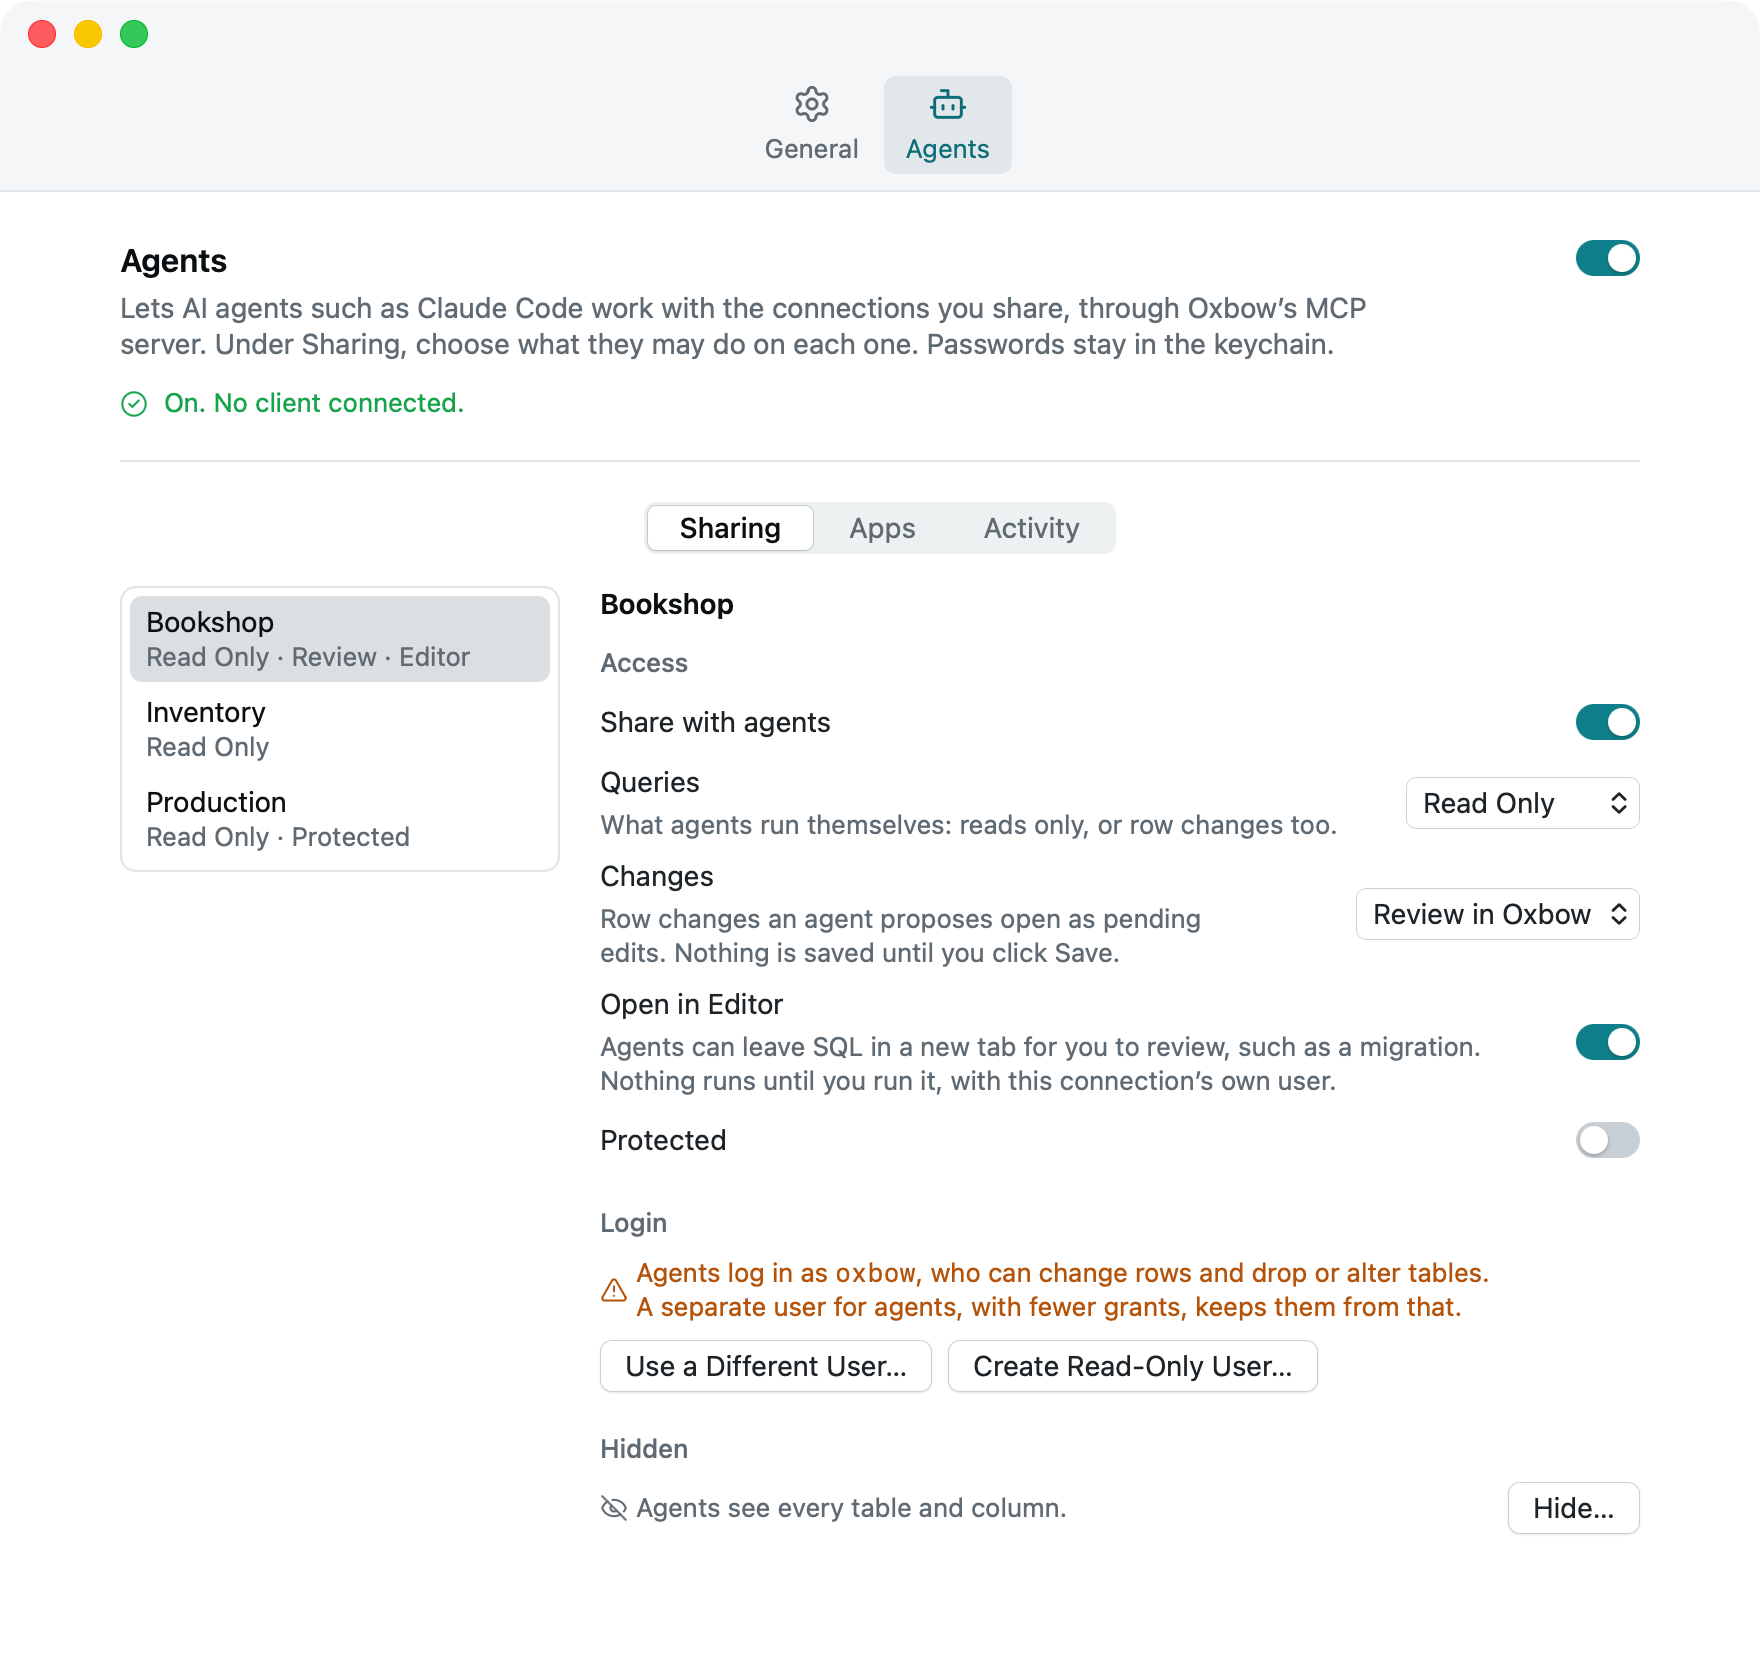
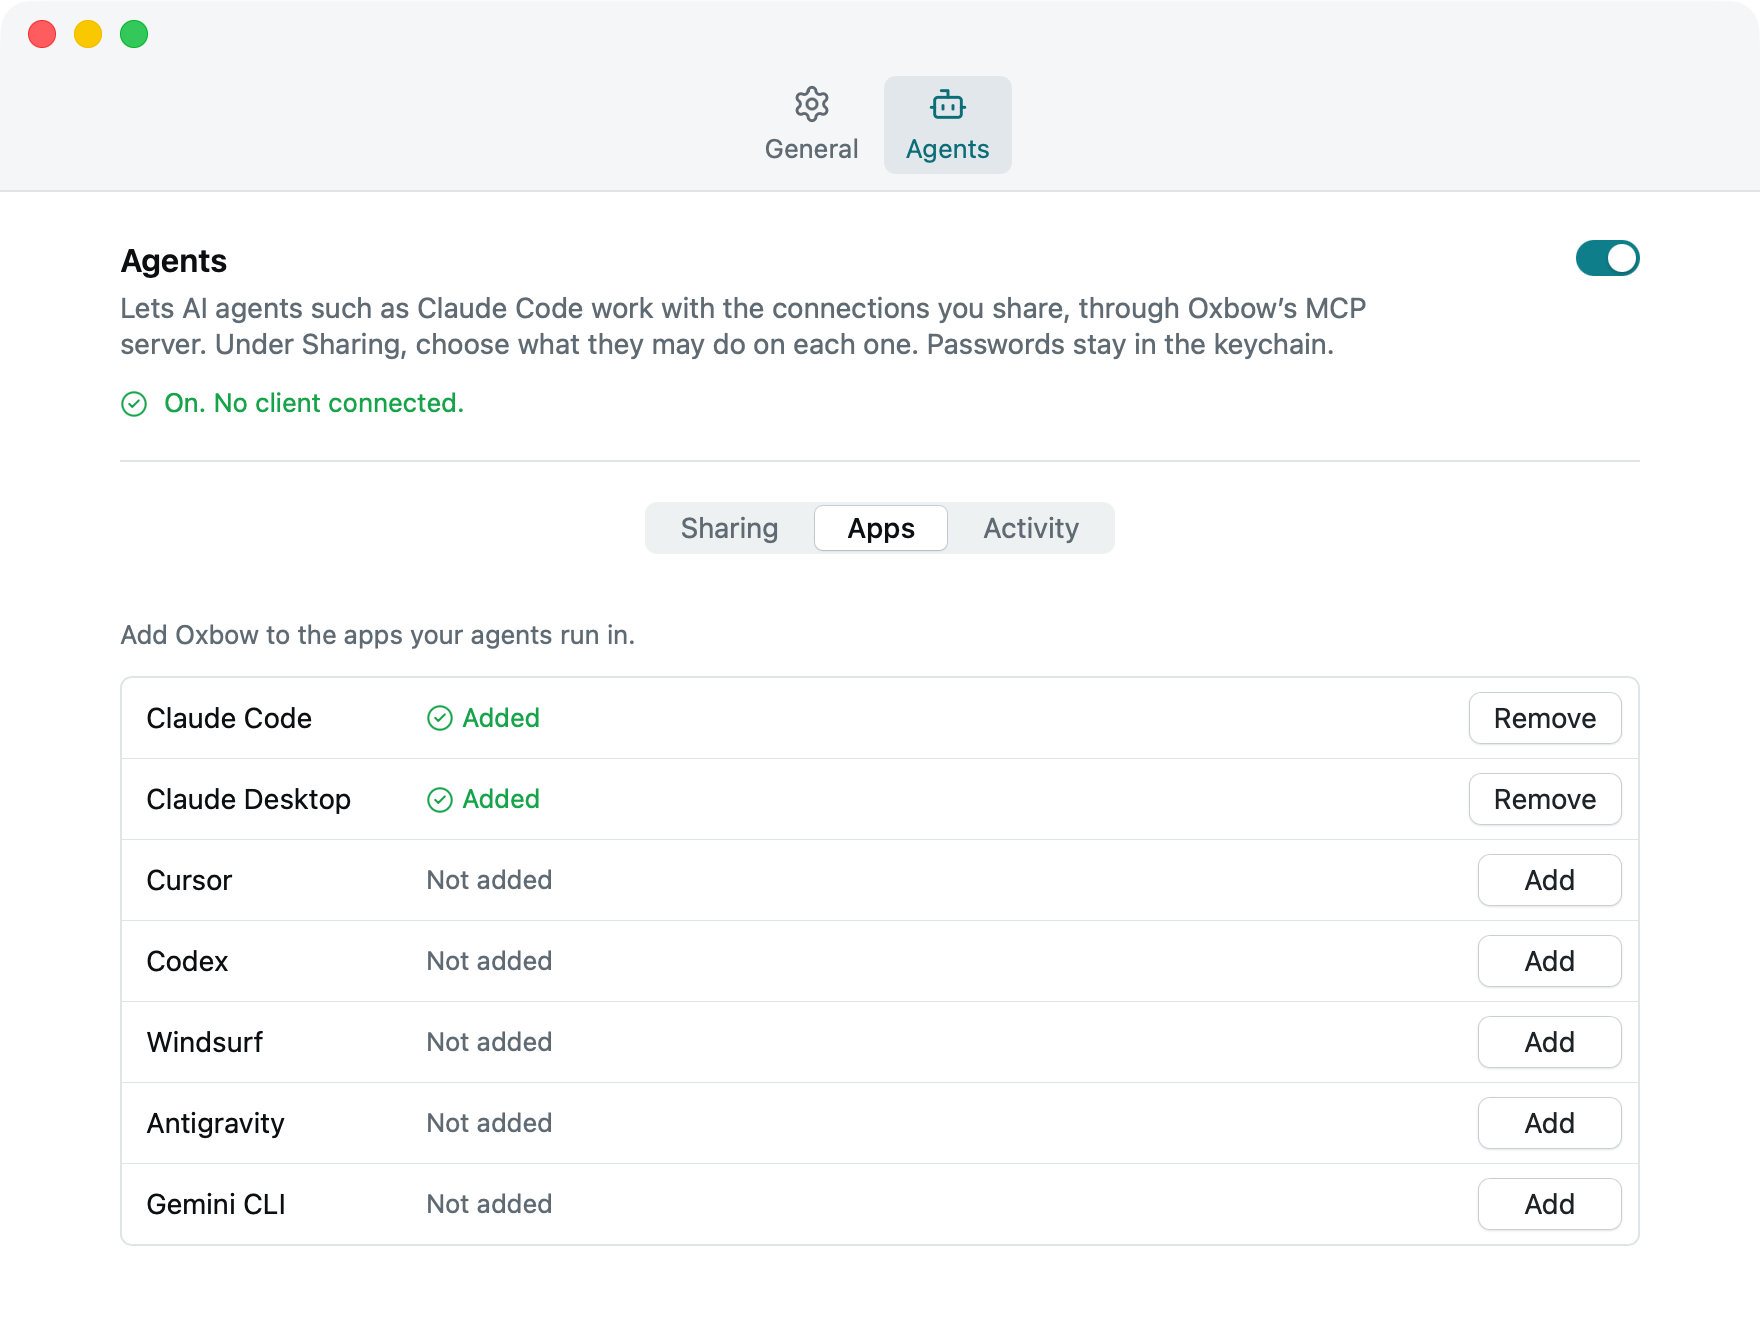
docs: update the MCP server screenshot

diff --git a/README.md b/README.md
@@ -58,7 +58,7 @@ Add Oxbow to them in one click from **Settings › Agents**; any other MCP clien
 
 <picture>
   <source media="(prefers-color-scheme: light)" srcset="assets/mcp-light.webp">
-  <img src="assets/mcp.webp" alt="Oxbow’s MCP settings: the agent apps, and what each connection shares." width="640">
+  <img src="assets/mcp.webp" alt="Settings › Agents on Apps: the server on, with Claude Code and Claude Desktop added and Cursor, Codex, Windsurf, Antigravity and Gemini CLI ready to add." width="640">
 </picture>
 
 - **Off until you share.** The server and every connection start off, and each connection is shared on its own.
